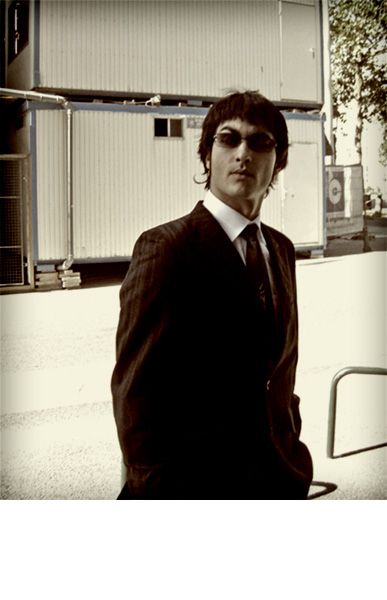
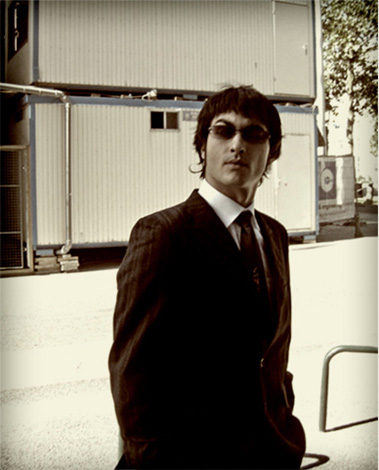
Updated Team pictures

diff --git a/radicalsite/radicalwebapp/templates/index.html b/radicalsite/radicalwebapp/templates/index.html
@@ -304,7 +304,7 @@ Services
         <div class="hover">
           <h2>Jose Gomez de Lara</h2>
           <h5>Cofounder - CTO</h5>
-          <p>Game Industry senior, former Microsoft and Sony engineer. Experience as Designer and Producer.</p>
+          <p>Game Industry senior, former Microsoft and Sony engineer.</p>
           <ul class="social-fonts">
             <!-- <li><a href="#"><span class="icon-facebook"></span></a></li> -->
             <li ><a href="http://www.twitter.com/bochelord" target='_blank'><span class="icon-twitter"></span></a></li>
@@ -316,7 +316,7 @@ Services
       </div>
       <!--member-->
       
-      <div class="member"> <img src="{{ STATIC_URL }}assets/img/team/2.jpg" alt="">
+      <div class="member"> <img src="{{ STATIC_URL }}assets/img/team/leunam.jpg" alt="">
         <div class="hover">
           <h2>John Doe</h2>
           <h5>ui / ux guru</h5>

diff --git a/radicalsite/radicalsite/static/assets/css/main.css b/radicalsite/radicalsite/static/assets/css/main.css
@@ -925,7 +925,7 @@ box-shadow: 0px 1px 10px 0px rgba(50,50,50,1);
 	overflow: hidden;
 	z-index:99;
 	opacity:0;
-	text-align:center;
+	text-align:justify;
 	-webkit-transform: translateY(100%);
 	-moz-transform: translateY(100%);
 	-ms-transform: translateY(100%);
@@ -933,7 +933,7 @@ box-shadow: 0px 1px 10px 0px rgba(50,50,50,1);
 	-webkit-transition: -webkit-transform 0.4s, opacity 0.1s 0.3s;
 	-moz-transition: -moz-transform 0.4s, opacity 0.1s 0.3s;
 	transition: transform 0.4s, opacity 0.1s 0.3s;
-	padding:10px 20px 20px 20px;
+	padding:5px 20px 20px 20px;
 }
 
 
@@ -949,13 +949,13 @@ box-shadow: 0px 1px 10px 0px rgba(50,50,50,1);
 }
 
 .member .hover h2{
-	font-size:20px;
+	font-size:18px;
 	text-transform:uppercase;
 	color:#fff;
 	margin-bottom:0;
 }
 .member .hover h5{
-	font-size:10px;
+	font-size:8px;
 	text-transform:uppercase;
 	color:#f59343;
 	margin:0;
